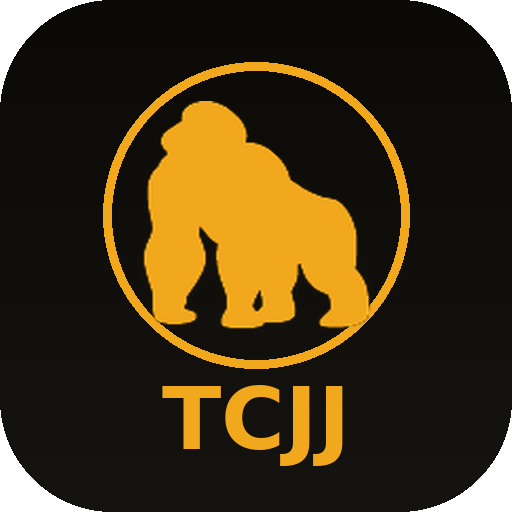
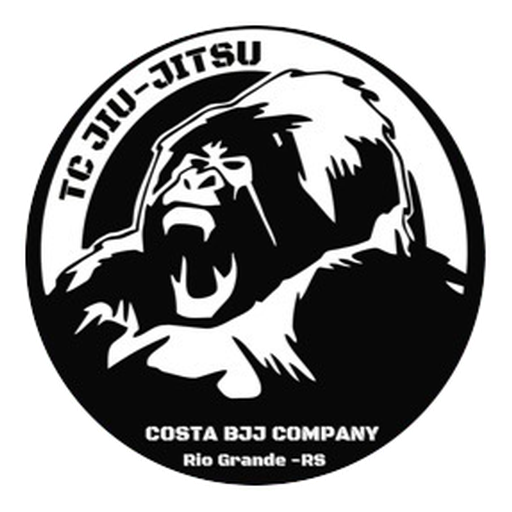
TCJJ Centro: troca o ícone pelo brasão oficial da academia
Substitui o ícone do gorila dourado pelo brasão real (TC-JIU-JITSU / COSTA
BJJ COMPANY), recortando o anel colorido de stories do Instagram e mantendo
o brasão preto sobre fundo branco. Atualiza os 4 tamanhos (180/192/512 +
maskable) e sobe a versão do cache do service worker (v3) para o novo ícone
substituir o antigo.

Claude-Session: https://claude.ai/code/session_01VtMMCgqH51bqrywoJGa5mc

diff --git a/tcjj/service-worker.js b/tcjj/service-worker.js
@@ -1,5 +1,5 @@
 /* TCJJ Centro — service worker (offline-first app shell) */
-const CACHE = 'tcjj-v2';
+const CACHE = 'tcjj-v3';
 const ASSETS = [
   './',
   './index.html',
